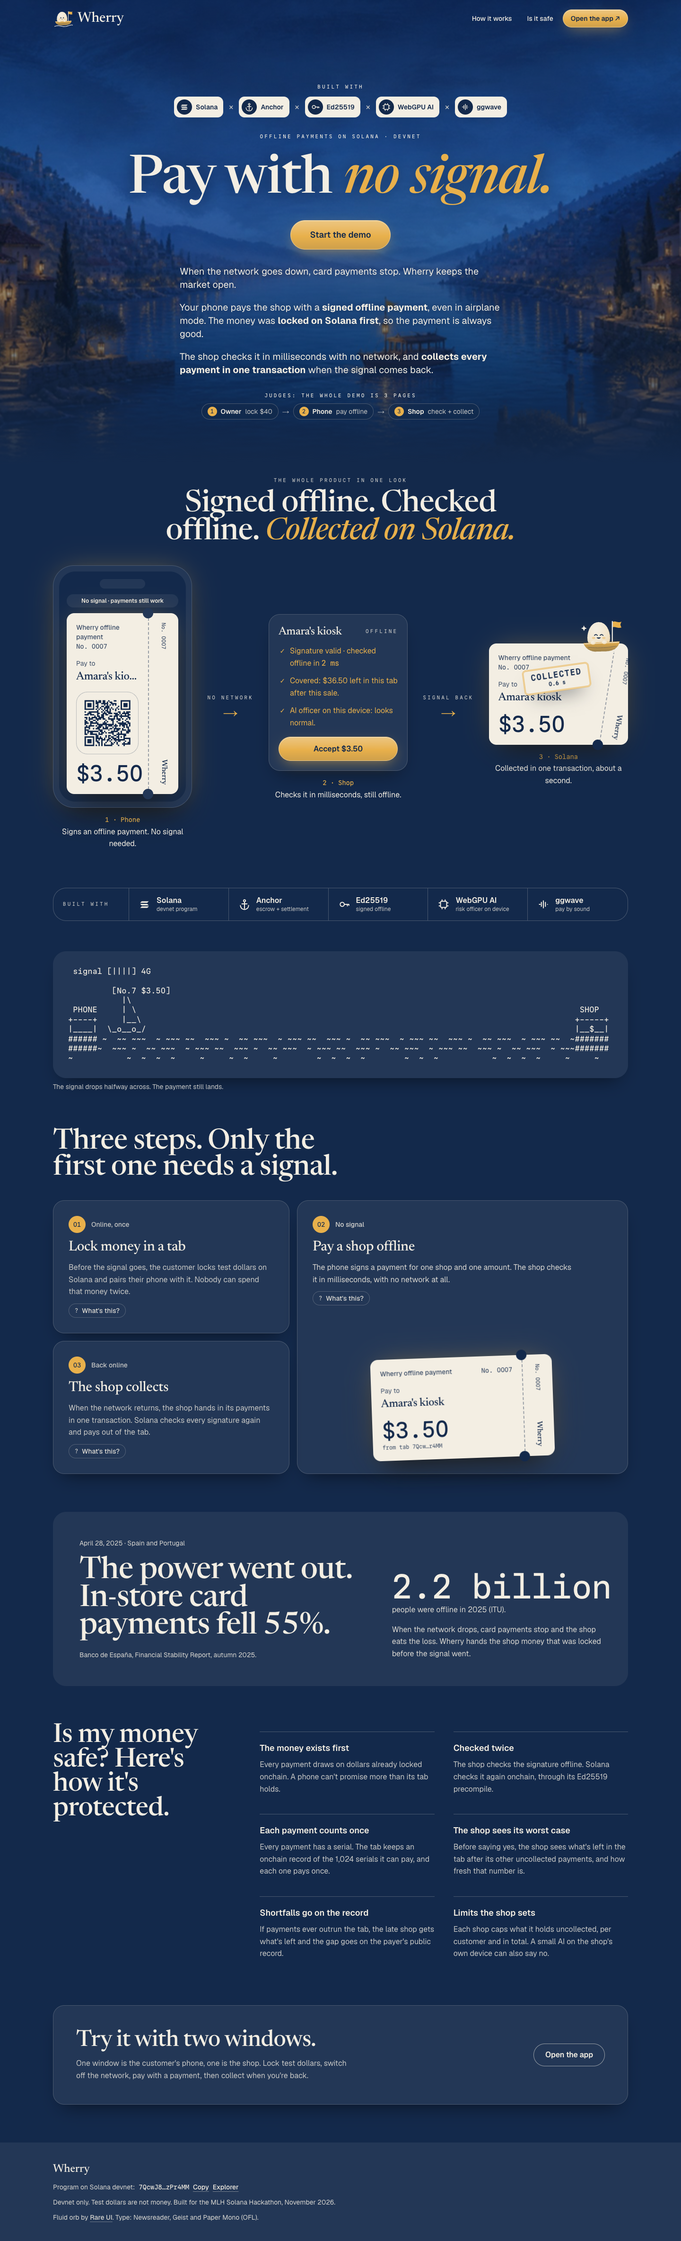
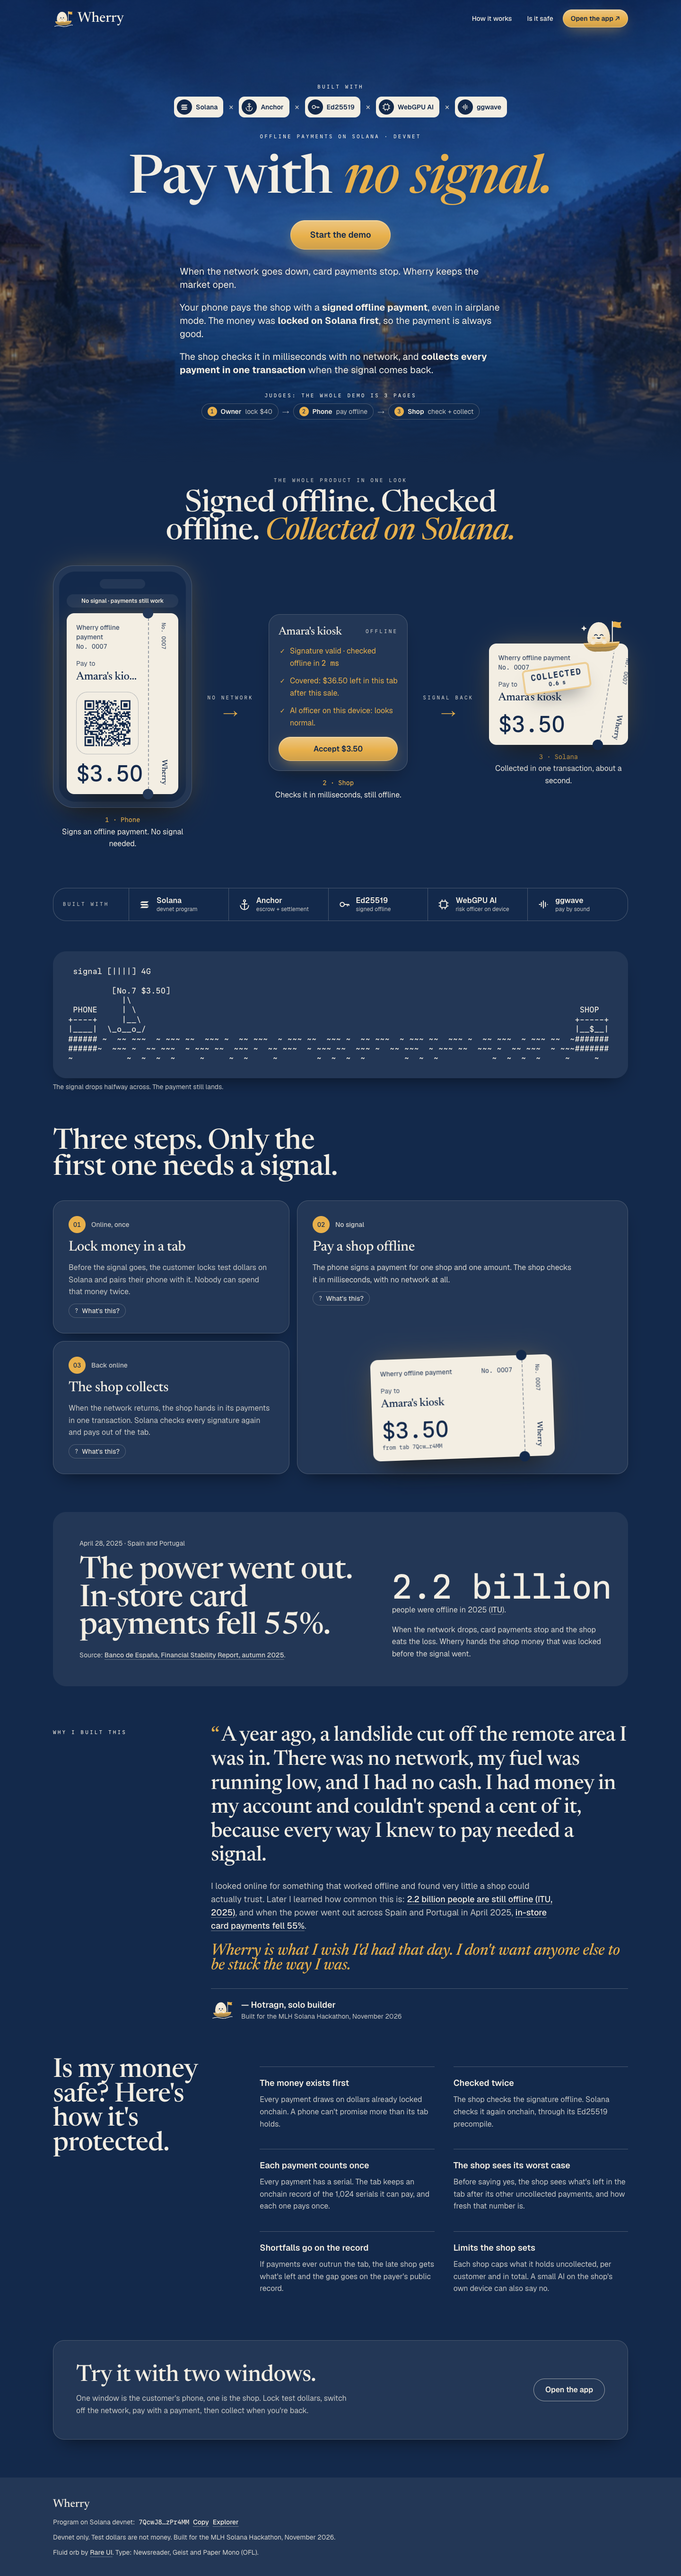
Landing: "Why I built this" (owner's story, quote-style), sources linked to ITU and Banco de España

diff --git a/app/page.tsx b/app/page.tsx
@@ -1,5 +1,6 @@
 import Link from "next/link";
 import { BuiltWith, BuiltWithTiles } from "./components/built-with";
+import { Doggett } from "./components/doggett";
 import { Logo } from "./components/logo";
 import { ProductCrux } from "./components/product-crux";
 import { RiverHero } from "./components/river-hero";
@@ -155,17 +156,71 @@ export default function Landing() {
             <div className="flex flex-col gap-5">
               <p className="text-sm text-on-night-muted">April 28, 2025 · Spain and Portugal</p>
               <p className="display text-[clamp(36px,5vw,64px)]">The power went out. In-store card payments fell 55%.</p>
-              <p className="text-sm text-on-night-muted">Banco de España, Financial Stability Report, autumn 2025.</p>
+              <p className="text-sm text-on-night-muted">
+                Source:{" "}
+                <a className="link" href="https://www.bde.es/f/webbe/GAP/Secciones/Publicaciones/InformesBoletinesRevistas/RevistaEstabilidadFinanciera/25/3_FSR49_Apagon.pdf" target="_blank" rel="noreferrer">
+                  Banco de España, Financial Stability Report, autumn 2025
+                </a>
+                .
+              </p>
             </div>
             <div className="flex flex-col justify-end gap-4">
               <p className="flex flex-col">
                 <span className="mono whitespace-nowrap text-4xl sm:text-5xl">2.2 billion</span>
-                <span className="text-on-night-muted">people were offline in 2025 (ITU).</span>
+                <span className="text-on-night-muted">
+                  people were offline in 2025 (
+                  <a className="link" href="https://www.itu.int/en/mediacentre/Pages/PR-2025-11-17-Facts-and-Figures.aspx" target="_blank" rel="noreferrer">
+                    ITU
+                  </a>
+                  ).
+                </span>
               </p>
               <p className="text-on-night-muted">
                 When the network drops, card payments stop and the shop eats the loss. Wherry hands the shop money that was locked before the signal went.
               </p>
             </div>
+          </div>
+        </section>
+
+        <section aria-labelledby="why-title" className="mx-auto max-w-page px-4 pb-20 md:px-8">
+          <div className="grid gap-10 lg:grid-cols-[minmax(0,3fr)_minmax(0,9fr)]">
+            <h2 id="why-title" className="label pt-3 text-ink">
+              Why I built this
+            </h2>
+            <figure className="flex flex-col gap-8">
+              <blockquote className="flex flex-col gap-6">
+                <p className="display text-[clamp(28px,3.4vw,44px)] leading-[1.15]">
+                  <span aria-hidden className="mr-1 text-accent">&ldquo;</span>A year ago, a landslide cut off the remote area I was in. There was no network, my fuel was running low, and I had no cash. I had money in
+                  my account and couldn&apos;t spend a cent of it, because every way I knew to pay needed a signal.
+                </p>
+                <p className="max-w-[62ch] text-lg text-muted">
+                  I looked online for something that worked offline and found very little a shop could actually trust. Later I learned how common this is:{" "}
+                  <a className="link text-ink" href="https://www.itu.int/en/mediacentre/Pages/PR-2025-11-17-Facts-and-Figures.aspx" target="_blank" rel="noreferrer">
+                    2.2 billion people are still offline (ITU, 2025)
+                  </a>
+                  , and when the power went out across Spain and Portugal in April 2025,{" "}
+                  <a
+                    className="link text-ink"
+                    href="https://www.bde.es/f/webbe/GAP/Secciones/Publicaciones/InformesBoletinesRevistas/RevistaEstabilidadFinanciera/25/3_FSR49_Apagon.pdf"
+                    target="_blank"
+                    rel="noreferrer"
+                  >
+                    in-store card payments fell 55%
+                  </a>
+                  .
+                </p>
+                <p className="display text-[clamp(24px,2.6vw,34px)] italic text-accent">
+                  Wherry is what I wish I&apos;d had that day. I don&apos;t want anyone else to be stuck the way I was.
+                </p>
+              </blockquote>
+              <figcaption className="flex items-center gap-4 border-t border-line pt-5">
+                <Doggett pose="welcome" size={48} decorative glow={false} />
+                <span className="flex flex-col">
+                  <span className="text-lg font-semibold">&mdash; Hotragn, solo builder</span>
+                  <span className="text-sm text-muted">Built for the MLH Solana Hackathon, November 2026</span>
+                </span>
+              </figcaption>
+            </figure>
           </div>
         </section>
 
